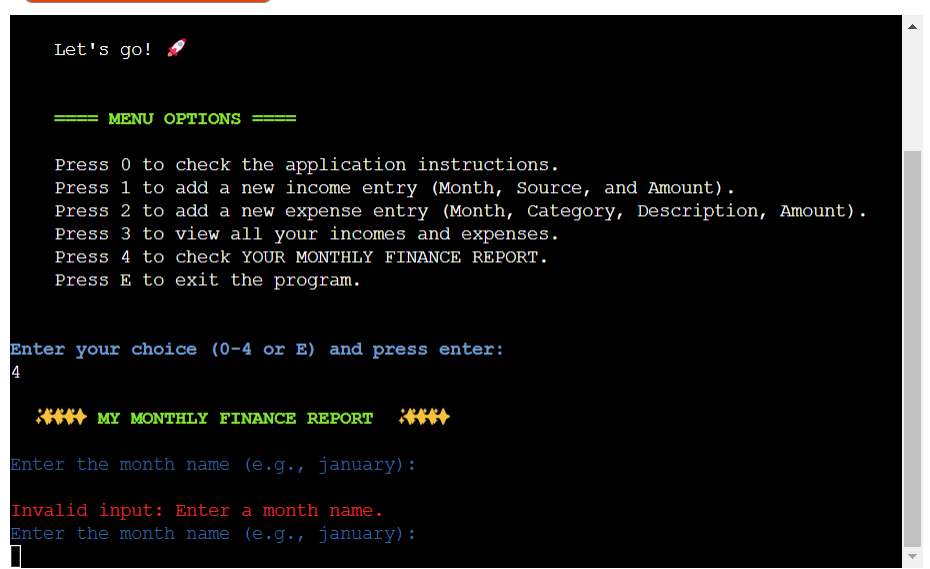
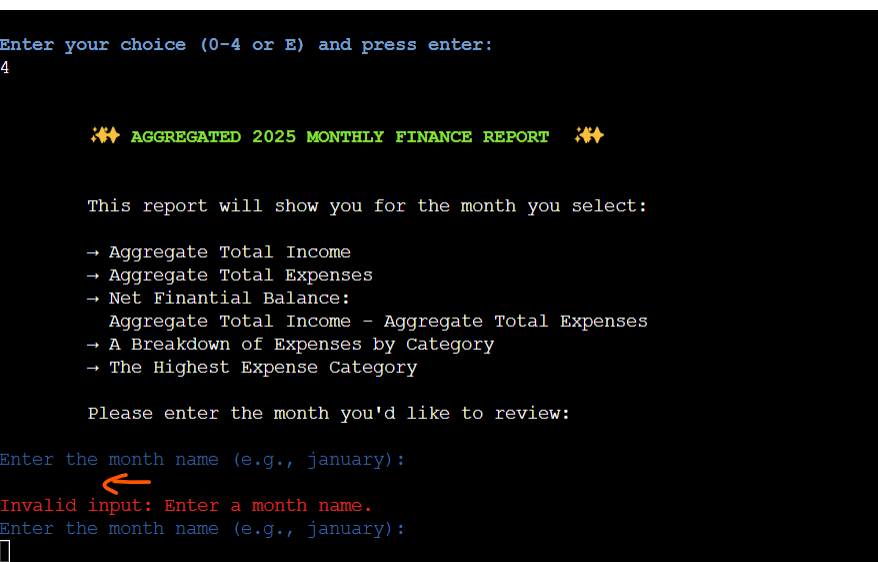
ReadMe: modifications completed until technologies used

Changed region(s): [[0.0, 0.0, 1.0, 1.0], [0.6458, 0.2117, 0.7073, 0.2722]]

diff --git a/README.md b/README.md
@@ -89,15 +89,12 @@
 ---
 ## Features 
 
-* Disclaimer in some screenshots, you will see the message what would like to do next?
-This was corrected accordingly to: What would "you" like to do next?
-
 ### Welcome message
 
 ![Welcome message](documentation/website-screenshots/2-welcome-message.png)
 
 + Positioned above the menu options.
-+ The welcome() function displays a colorful welcome message to the user when the program starts. It uses the colorama library to add green borders, creating a visually appealing introduction to MyFinances app.
++ The welcome() function displays a colorful welcome message to the user when the program starts. It uses the colorama library to add green borders, creating a visually appealing introduction to the CommunityFinaces app.
 + The welcome message communicates the application's core function: anonymously sharing 2025 income and expense data to contribute to a better understanding of the community's finances.  It also highlights the anonymity of participation and the impact the data will have on local policy and community programs.
 + The message expresses gratitude for user participation and reinforces the community-centric nature of the project.
 
@@ -107,7 +104,7 @@ This was corrected accordingly to: What would "you" like to do next?
 
 The Menu provides the following options:
 
-*   **0: Application Instructions:** Access detailed instructions on how to use MyFinances.
+*   **0: Application Instructions:** Access detailed instructions on how to use the CommunityFinaces.
 *   **1: Add New Income:** Record a new income entry, by specifying the month, source, and amount.
 *   **2: Add New Expense:** Record a new expense entry, by specifying the month, category, description, and amount.
 *   **3: View All Records:** Display all recorded income and expense entries in a table format.
@@ -336,24 +333,28 @@ in **User inputs 0**.
 
 + Leading/trailing spaces are accepted (e.g., JanuarY, January, january, "    January", etc).
 
-+ If the user enters an invalid month name (e.g., jan, or a misspelled month) an error message is displayed.
++ If the user enters an invalid month name (e.g., misspelled month) an error message is displayed.
 ![Invalid month](documentation/website-screenshots/35-invalid-month-input.png)
 
 + If there is neither income nor expense data for the selected month, a message will be displayed indicating there is no data for that month yet.
 
 ![Month has no data](documentation/website-screenshots/35-month-has-no-data.png)
 
-+ For a valid month input where there is income data but no expenses data, a warning message will be displayed indicating there is no expense data. In this case, the report displays total income, total expenses (0,00 EUR), cash balance, and in "expenses by category" another warning message that no expenses for this month exists.
++ For a valid month input where there is income data but no expenses data, a warning message will be displayed indicating there is no expense data. In this case, the report displays aggregated total income, aggregated total expenses (0,00 EUR), net financial balance, and in "expenses by category" another warning message that no expenses for this month exists.
+
++ Note: The figure below is only an example of when the Google sheet "my_finances" contains income data but no expenses data.
 
 ![No expense data](documentation/website-screenshots/36-no-expense-data-for-that-month.png)
 
-+ For a valid month input where there is expense data but no income data, a warning message will be displayed indicating there is no income data. In this case, the report displays total income (0,00 EUR), total expenses, cash balance, expenses by category, and highest expense.
++ For a valid month input where there is expense data but no income data, a warning message will be displayed indicating there is no income data. In this case, the report displays aggregated total income (0,00 EUR), aggregated total expenses, net financial balance, expenses by category, and highest expense.
+
++ Note: The figure below is only an example of when the Google sheet "my_finances" contains expenses data but no income data.
 
 ![No income data](documentation/website-screenshots/37-no-income-data-for-that-month.png)
 
-+ For a valid month input, where both, income and expenses data exist, the report displays total income, total expenses, cash balance, expenses by category, and the highest expense.
++ For a valid month input, where both, income and expenses data exist, the report displays aggregated total income, aggregated total expenses, net financial balance, expenses per category, and the highest expense of the group/community.
 
-+ For example, if user has the following data:
++ For example, if the program has collected the following data:
 
   + Income data:
   ![Income data](documentation/website-screenshots/39-income-data.png)
@@ -361,39 +362,43 @@ in **User inputs 0**.
   + Expenses data:
   ![Expenses data](documentation/website-screenshots/40-expenses-data.png)
 
-  + The user will obtain the following monthly report:
+  + The user will obtain the following monthly aggregated
+  report:
   ![monthly report](documentation/website-screenshots/41-total-income-and-expenses-calculation.png)
 
 The program then asks the user what they would like to do next, and displays the menu options again, with the same validations as in, for example, menu option 0. 
 
 **Menu Option E**
 
-![Menu option E](documentation/website-screenshots/7-lowercase-valid-input-exit.png)
+![Menu option E](documentation/website-screenshots/7-lowercase-e-valid-input-exit.png)
 
 + **Exiting the Program:** The application provides a clean exit, displaying a friendly farewell message to the user before closing.
 + This ensures a positive user experience even when leaving the application.
 + Both "e" or E" are recognized as a valid input to exit the program (figures above and below, respectively).
 
-![Menu option E](documentation/website-screenshots/8-uppercase-valid-input-exit.png)
+![Menu option E](documentation/website-screenshots/8-uppercase-e-valid-input-exit.png)
 
 ---
 ## Features left to implement
 
-+ This project allowed me to apply my understanding of Python, object-oriented programming principles, and core programming concepts like flow control, iteration, conditional statements, functions, methods, and data structures. While I acknowdlege that a complete finance application would include more features (which I intend to add later), my focus here was on these fundamentals. 
++ This project allowed me to apply my understanding of Python, object-oriented programming principles, and core programming concepts like flow control, iteration, conditional statements, functions, methods, and data structures. While I acknowdlege that a complete finance application includes many more features (which I would like to implement later), my focus here was on these fundamentals. 
 
 + Among features left to implement:
-
-  +   **Data Editing and Deletion:** Allow users to correct mistakes, or delete their entries, to manage their financial data more effectively.
-
-  +   **Searching:** As the data grows, it will become more difficult to find specific entries. Implementing searching capabilities would allow users to quickly locate the income or expense records they need.
 
   +   **Data Visualization:** While the monthly report provides a summary, visual representations of the data (charts, graphs) would make it easier for users to understand their spending habits and identify trends.
 
   +   **Multiple Years:** The application is currently designed to track finances for 2025 only. Future versions could allow users to select the year for tracking.
 
-  +   **Error Handling/Input Validation Improvements:** While basic input validation is implemented, semantic validation of the "source," "category," and "description" fields could be added to further ensure meaningful input. However, to maintain flexibility for users, I have intentionally not implemented strict semantic validation at this stage, as the potential entries for these fields are limitless.  
+  +   **Error Handling/Input Validation Improvements:** While basic input validation is implemented, semantic validation of the "source," "category," and "description" fields could be added to further ensure meaningful input. However, to maintain flexibility for users, I have intentionally not implemented strict semantic validation at this stage, as the potential entries for these fields are limitless.
 
-  MISSING. IMPLEMENT 
+  + **Income Source Categorization:**  Similar to the expense categorization feature, implement a system for categorizing income sources. Due to time constraints, this feature was not included but is planned for a future update. This will allow for more granular analysis of income data.For now, the "Source" field provides flexibility for users to describe their income sources, which will can still be valuable for categorization efforts.
+
+  + **Averages and Statistical Analysis:**  Calculate and display average income and expense figures at the community level. This will provide users with valuable benchmarks and insights into how their finances compare to the overall community.  Due to time constraints, this was not included in tthis project but it will certainly be a great feature to implement. This would include for example:
+    * Average income by month.
+    * Average expenses by category.
+    * Overall average income and expenses, etc.
+  
+  + **Improved Menu Navigation:**  Currently, once a user enters a specific feature (e.g., "Add New Income"), they cannot directly return to the main menu without completing the current operation or exiting the application. Future implementations will enhance menu navigation to allow users to easily return to the main menu from any point within the application, even if they have not yet completed data entry.  This will improve the user experience.
 
 ---
 ## Design
@@ -402,29 +407,29 @@ The program then asks the user what they would like to do next, and displays the
 
 + The use of `colorama` was used to enhance the console output with colored text, improving readability and user experience.
 
-  *   **Green:**  Used for positive messages, success indicators, titles, and section headers (e.g., "WELCOME TO MyFinances APP!", success messages).
+  *   **Green:**  Used for success indicators, titles, and section headers.
 
   *   **Blue:** Used for prompts, instructions, and menu options. This color is often associated with clarity and trust, making it suitable for guiding the user. (e.g., "Enter your choice (0-4 or E) and press enter:").
 
   *   **Yellow:** Used for labels and field names, drawing the user's attention to the information they need to provide (e.g., "Month:", "Source:"). Yellow is also used for informational messages, such as the "No income/expenses data found" warning. This distinguishes these messages from errors, which are displayed in red.
 
   *   **Red:** Used for error messages, drawing the user's attention to invalid input or potential problems. (e.g., "Invalid input: Please enter a number (0-4) or E.").
-  Only a few basic colors were used to highlight certain elements:
 
 ### Layout
 
-The MyFinances application employs a consistent layout to ensure a predictable and user-friendly experience.
+The CommunityFinaces application employs a consistent layout to ensure a predictable and user-friendly experience:
 
-*   **Screen Title/Heading:** Each screen within the application has a clear title or heading, displayed in green and bold. This heading indicates the current section or function the user is interacting with (e.g., "ADD NEW INCOME," "MONTHLY FINANCE REPORT").
+*   **Heading:** Each menu option has a clear title or heading, displayed in green and bold. This heading indicates the current section or function the user is interacting with (e.g., "ADD NEW INCOME,",etc.).
 
-*   **Informative Text/Instructions:** Below the heading, most screens provide brief instructions or context-sensitive information relevant to the current task. This guides the user and explains the purpose of the screen. Prominent use of color and bold text is used to distinguish these instructions.
+*   **Informative Text** Below the heading, most features provide brief instructions or context-sensitive information relevant to the current task. This guides the user and explains the purpose of the screen.
 
 *   **User Input and Prompts:** At the bottom of each screen, the application prompts the user for input. Clear labels are used to indicate the expected input (e.g., "Enter the month name:").  If the user needs to choose from a set of options, these options are presented in a numbered list above the input prompt.  This structure makes it clear what the user needs to do next.
 
-*   **Data Display:**  When displaying data (like income and expenses), the application uses the `tabulate` library to format the information into a clear, tabular format with headers. This makes it easy for users to review their financial records.
+*   **Data Display:**  When displaying all data, the application uses the `tabulate` library to format the information into a clear, tabular format with headers. This makes it easy for users to review their financial records.
 
 ---
 ## Technologies Used
+
 - [Python](https://www.python.org/)
 - [GitHub](https://github.com/)
 - [Gitpod](https://www.gitpod.io/): The initial development environment used to create the project files and Python code.
@@ -440,8 +445,6 @@ The MyFinances application employs a consistent layout to ensure a predictable a
 This project utilizes the following Python libraries:
 
 ### Standard Libraries
-
-These libraries are included with standard Python installations and provide core functionality:
 
 - `datetime`: For working with dates and times.
 - `re`: For regular expression operations (pattern matching).
@@ -464,7 +467,6 @@ These libraries are external and were installed to extend the project's capabili
 - The result: no errors were returned.
 
 ![CI Python linter](documentation/validation/0-python-linter-validation.png)
-MISSING
 
 + There were no errors found in the python code using CI python linter. 
 
@@ -546,8 +548,7 @@ MISSING
   1. A call to generate_monthly_finance_report failed because it's a method of the FinanceManager class and required a class instance. However, the call in the handle_user_option was not associated with an instance.
         - Solution: this mistake was spotted and corrected.
 
-  2. The creds.json file dissappeared from the workspace after adding it to 
-  .gitignore. It is not clear why that happened, because the .gitignore should just prevent it from being pushed to GitHub. Thus, it should still be present but greyed-out.
+  2. The creds.json file dissappeared from the workspace after adding it to .gitignore. It is not clear why that happened, because the .gitignore should just prevent it from being pushed to GitHub. Thus, it should still be present but greyed-out.
       - Solution: I added it back to the workspace and saved it once again.
 
   3. The application encountered errors when processing amount inputs that included commas (e.g., "1,500"). Direct conversion of these strings to floating-point numbers resulted in a ValueError. 
@@ -574,7 +575,7 @@ The site was deployed using Heroku following the following steps:
 11. Enable either automatic deployment by clicking on the button "Enable Automatic Deploys" in the "Automatic Deploys" Section or deploy a branch manually by selecting the branch and clicking the button "Deploy Branch" in the "Manual deploys" section.
 12. Allow the application build process to complete. Then, click the "View" link to access your deployed application.
 
-The live link can be found here: MISSING
+The live link can be found here: [The 2025 Community Finances App!](https://my-finances-tracker-5a1726e2723f.herokuapp.com/)
 
 ## Local Deployment
 
